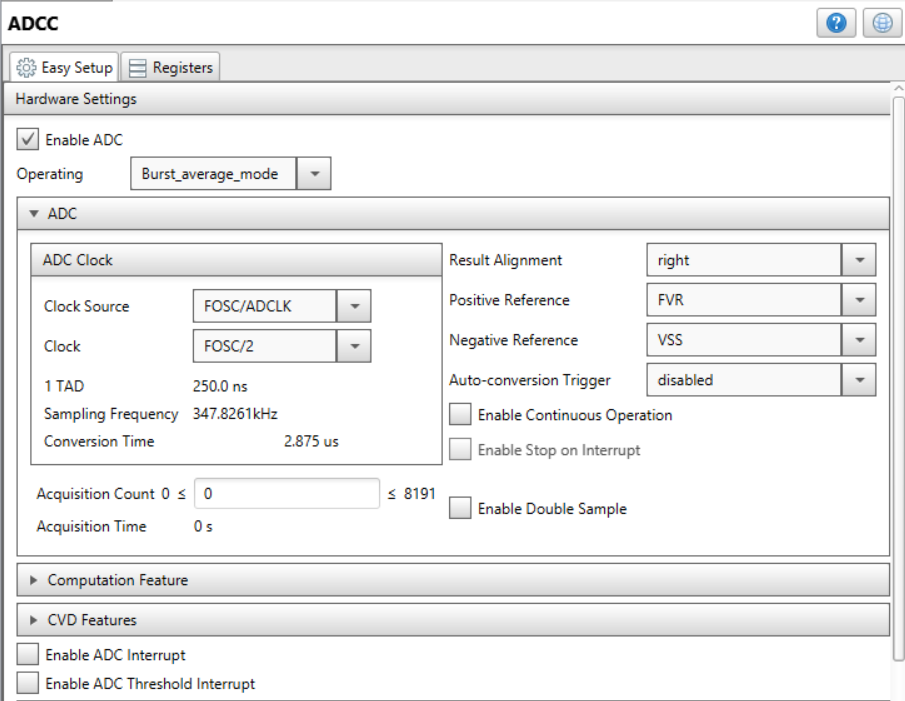
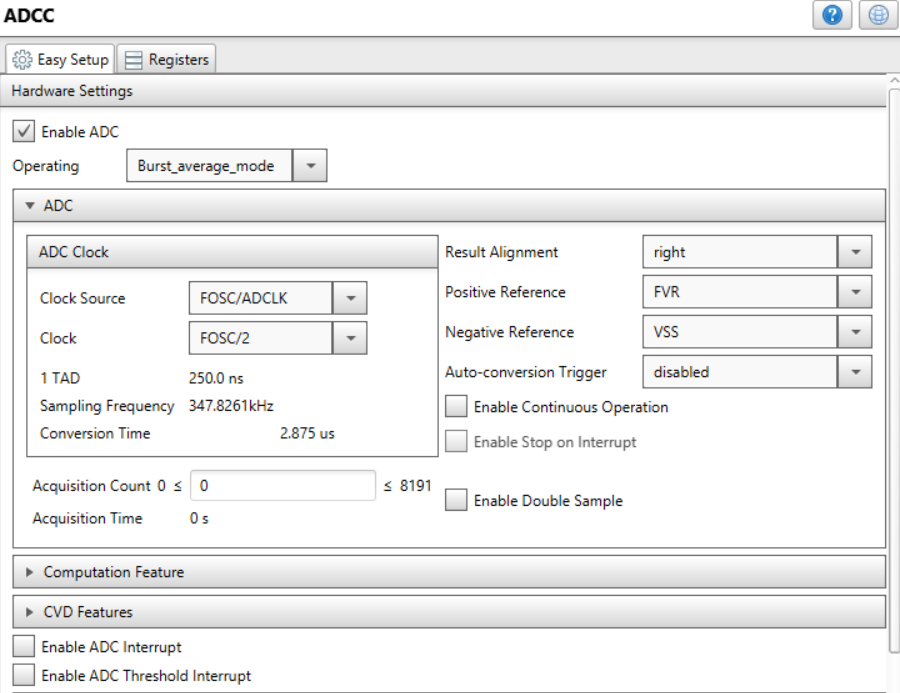
MPAE-14066: Fixed more formatting in README, cropped screenshot

Changed region(s): [[0.0, 0.0, 1.0, 1.0]]

diff --git a/README.md b/README.md
@@ -5,13 +5,13 @@
 # Weather Station with PIC18F16Q41, Curiosity Nano Base and Mikroe Click boards&trade;
 
 
-This is where the introduction to the example goes, including mentioning the peripherals used 
+<!-- This is where the introduction to the example goes, including mentioning the peripherals used -->
 
 ## Related Documentation
 
 The “pic18f16q41-weather-station-cnano-mplab-mcc” project highlights the advanced communications peripherals found on the PIC18-Q41 
 family of devices to create a PIC18 powered weather station, all with Microchip’s easy to use Curiosity Nano platform. The I2C module 
-was used to interface a Bosch BME280 Weather Sensor to provide real-time measurements for temperature, relative humidity, and 
+was used to interface with a Bosch BME280 Weather Sensor to provide real-time measurements for temperature, relative humidity, and 
 atmospheric pressure. This project also implements the 12-bit Analog to Digital Converter with Computation (ADCC) to interface an 
 analog ambient light sensor which was used to measure light intensity. The SPI module was used to drive an OLED display to display 
 the weather station output values in real time, and the UART module was used to also display the weather station output values over 
@@ -19,24 +19,24 @@ a serial port in real time.
 
 ## Software Used
 
- All software used in this example must be listed here. Use unbreakable links!
-     - MPLAB® X IDE 5.50 or newer [(microchip.com/mplab/mplab-x-ide)](http://www.microchip.com/mplab/mplab-x-ide)
-     - MPLAB® XC8 2.32 or a newer compiler [(microchip.com/mplab/compilers)](http://www.microchip.com/mplab/compilers)
-     - MPLAB® Code Configurator (MCC) 3.95.0 or newer [(microchip.com/mplab/mplab-code-configurator)](https://www.microchip.com/mplab/mplab-code-configurator)
-     - MPLAB® Code Configurator (MCC) Device Libraries PIC10 / PIC12 / PIC16 / PIC18 MCUs [(microchip.com/mplab/mplab-code-configurator)](https://www.microchip.com/mplab/mplab-code-configurator)
-     - Microchip PIC18F-Q Series Device Support (1.4.109) or newer [(packs.download.microchip.com/)](https://packs.download.microchip.com/) 
+ <!-- All software used in this example must be listed here. Use unbreakable links! -->
+- MPLAB® X IDE 5.50 or newer [(microchip.com/mplab/mplab-x-ide)](http://www.microchip.com/mplab/mplab-x-ide)
+- MPLAB® XC8 2.32 or a newer compiler [(microchip.com/mplab/compilers)](http://www.microchip.com/mplab/compilers)
+- MPLAB® Code Configurator (MCC) 3.95.0 or newer [(microchip.com/mplab/mplab-code-configurator)](https://www.microchip.com/mplab/mplab-code-configurator)
+- MPLAB® Code Configurator (MCC) Device Libraries PIC10 / PIC12 / PIC16 / PIC18 MCUs [(microchip.com/mplab/mplab-code-configurator)](https://www.microchip.com/mplab/mplab-code-configurator)
+- Microchip PIC18F-Q Series Device Support (1.4.109) or newer [(packs.download.microchip.com/)](https://packs.download.microchip.com/) 
 
-- MPLAB® X IDE 5.50.0 or newer [(MPLAB® X IDE 5.50)](https://www.microchip.com/en-us/development-tools-tools-and-software/mplab-x-ide?utm_source=GitHub&utm_medium=TextLink&utm_campaign=MCU8_MMTCha_MPAE_Examples&utm_content=pic18f16q41-weather-station-cnano-mplab-mcc-github)
-- MPLAB® XC8 2.32.0 or newer compiler [(MPLAB® XC8 2.32)](https://www.microchip.com/en-us/development-tools-tools-and-software/mplab-xc-compilers?utm_source=GitHub&utm_medium=TextLink&utm_campaign=MCU8_MMTCha_MPAE_Examples&utm_content=pic18f16q41-weather-station-cnano-mplab-mcc-github)
+<!--  - MPLAB® X IDE 5.50.0 or newer [(MPLAB® X IDE 5.50)](https://www.microchip.com/en-us/development-tools-tools-and-software/mplab-x-ide?utm_source=GitHub&utm_medium=TextLink&utm_campaign=MCU8_MMTCha_MPAE_Examples&utm_content=pic18f16q41-weather-station-cnano-mplab-mcc-github) 
+- MPLAB® XC8 2.32.0 or newer compiler [(MPLAB® XC8 2.32)](https://www.microchip.com/en-us/development-tools-tools-and-software/mplab-xc-compilers?utm_source=GitHub&utm_medium=TextLink&utm_campaign=MCU8_MMTCha_MPAE_Examples&utm_content=pic18f16q41-weather-station-cnano-mplab-mcc-github) -->
 
 ## Hardware Used
 
-All hardware used in this example must be listed here. Use unbreakable links!
-     - PIC18F16Q41 Curiosity Nano [(EV26Q64A)](https://www.microchip.com/Developmenttools/ProductDetails/EV26Q64A)
-     - Curiosity Nano Base for Click boards™ [(AC164162)](https://www.microchip.com/Developmenttools/ProductDetails/AC164162)
-     - OLED C Click board™ [(MIKROE-1585)](https://www.mikroe.com/oled-c-click) 
-	 - Weather Click board™ [(MIKROE-1978)](https://www.mikroe.com/weather-click)
-	 - Ambient Click board™ [(MIKROE-1890)](https://www.mikroe.com/ambient-click)
+<!-- All hardware used in this example must be listed here. Use unbreakable links! -->
+- PIC18F16Q41 Curiosity Nano [(EV26Q64A)](https://www.microchip.com/Developmenttools/ProductDetails/EV26Q64A)
+- Curiosity Nano Base for Click boards™ [(AC164162)](https://www.microchip.com/Developmenttools/ProductDetails/AC164162)
+- OLED C Click board™ [(MIKROE-1585)](https://www.mikroe.com/oled-c-click) 
+- Weather Click board™ [(MIKROE-1978)](https://www.mikroe.com/weather-click)
+- Ambient Click board™ [(MIKROE-1890)](https://www.mikroe.com/ambient-click)
 	 
 
 ## Setup
@@ -45,11 +45,11 @@ The Q41 Curiosity Nano Development Board (Part # EV26Q64A) was selected as the d
 implemented using the MikroElektronika OLEDC Click board (MIKROE-1585), the Bosch BME280 environmental sensor was provided using the MikroElektronika Weather Click 
 Board (MIKROE-1978), and the ambient light sensor was provided using the MikroElektronika Ambient Click Board (MIKROE-1890). The Curiosity Nano base board has 
 three Click sockets. The layout of Click boards is as follows:
-	- Socket 1: OLED C Click
-	- Socket 2: Weather Click
-	- Socket 3: Ambient Click
+- Socket 1: OLED C Click
+- Socket 2: Weather Click
+- Socket 3: Ambient Click
 	
-	No additional wiring is required for this example.
+No additional wiring is required for this example.
 	
 |	Signal						  |	Microcontroller Pin |
 |---------------------------------|---------------------|
@@ -67,8 +67,8 @@ three Click sockets. The layout of Click boards is as follows:
 |  Ambient Click Output			  |	RC2					|
 	
 	
-	[![MCC Pin Manager Window View](images/pin_manager.png)]
-	[![Curiosity Nano Project Setup](images/project_setup.png)]
+[![MCC Pin Manager Window View](images/pin_manager.png)]
+[![Curiosity Nano Project Setup](images/project_setup.png)]
 
  
 
@@ -171,13 +171,13 @@ the compensation routine used to convert the raw analog value to light intensity
 setup of the ADCC module for this sensor interface. The setup and configuration of the ADCC using MCC is shown in the figure below. The ADCC 
 was configured to perform 32 burst average conversions and then right shift them by 5 (divide by 32).
 
-###ADCC Burst-Average Mode MCC Configuration:
+### ADCC Burst-Average Mode MCC Configuration:
 [![MCC ADCC Window View](images/ADCC_MCC_setup.png)]
 
-###ADCC Computation Feature MCC Configuration:
+### ADCC Computation Feature MCC Configuration:
 [![MCC ADCC Computation View](images/ADCC_MCC_Computation.png)]
 
-###Ambient Light Sensor Acquisition & Compensation:
+### Ambient Light Sensor Acquisition & Compensation:
 ```
 float Ambient_ReadSensor(void) {
     ADPCH = AMBIENT; // Select AMBIENT analog channel as ADCC positive input;
@@ -218,7 +218,7 @@ The UART TX pin was selected as pin RB7.
 ### Weather Station Serial Port Output Results on MPLAB Data Visualizer:
 [![MPLABX Data Visualizer Serial Terminal Output](images/DataVisualizerOutput.png)]
 
-Explain how to operate the example. Depending on complexity, step-by-step instructions and/or tables and/or images can be used 
+<!-- Explain how to operate the example. Depending on complexity, step-by-step instructions and/or tables and/or images can be used -->
 
 ## Summary
 
